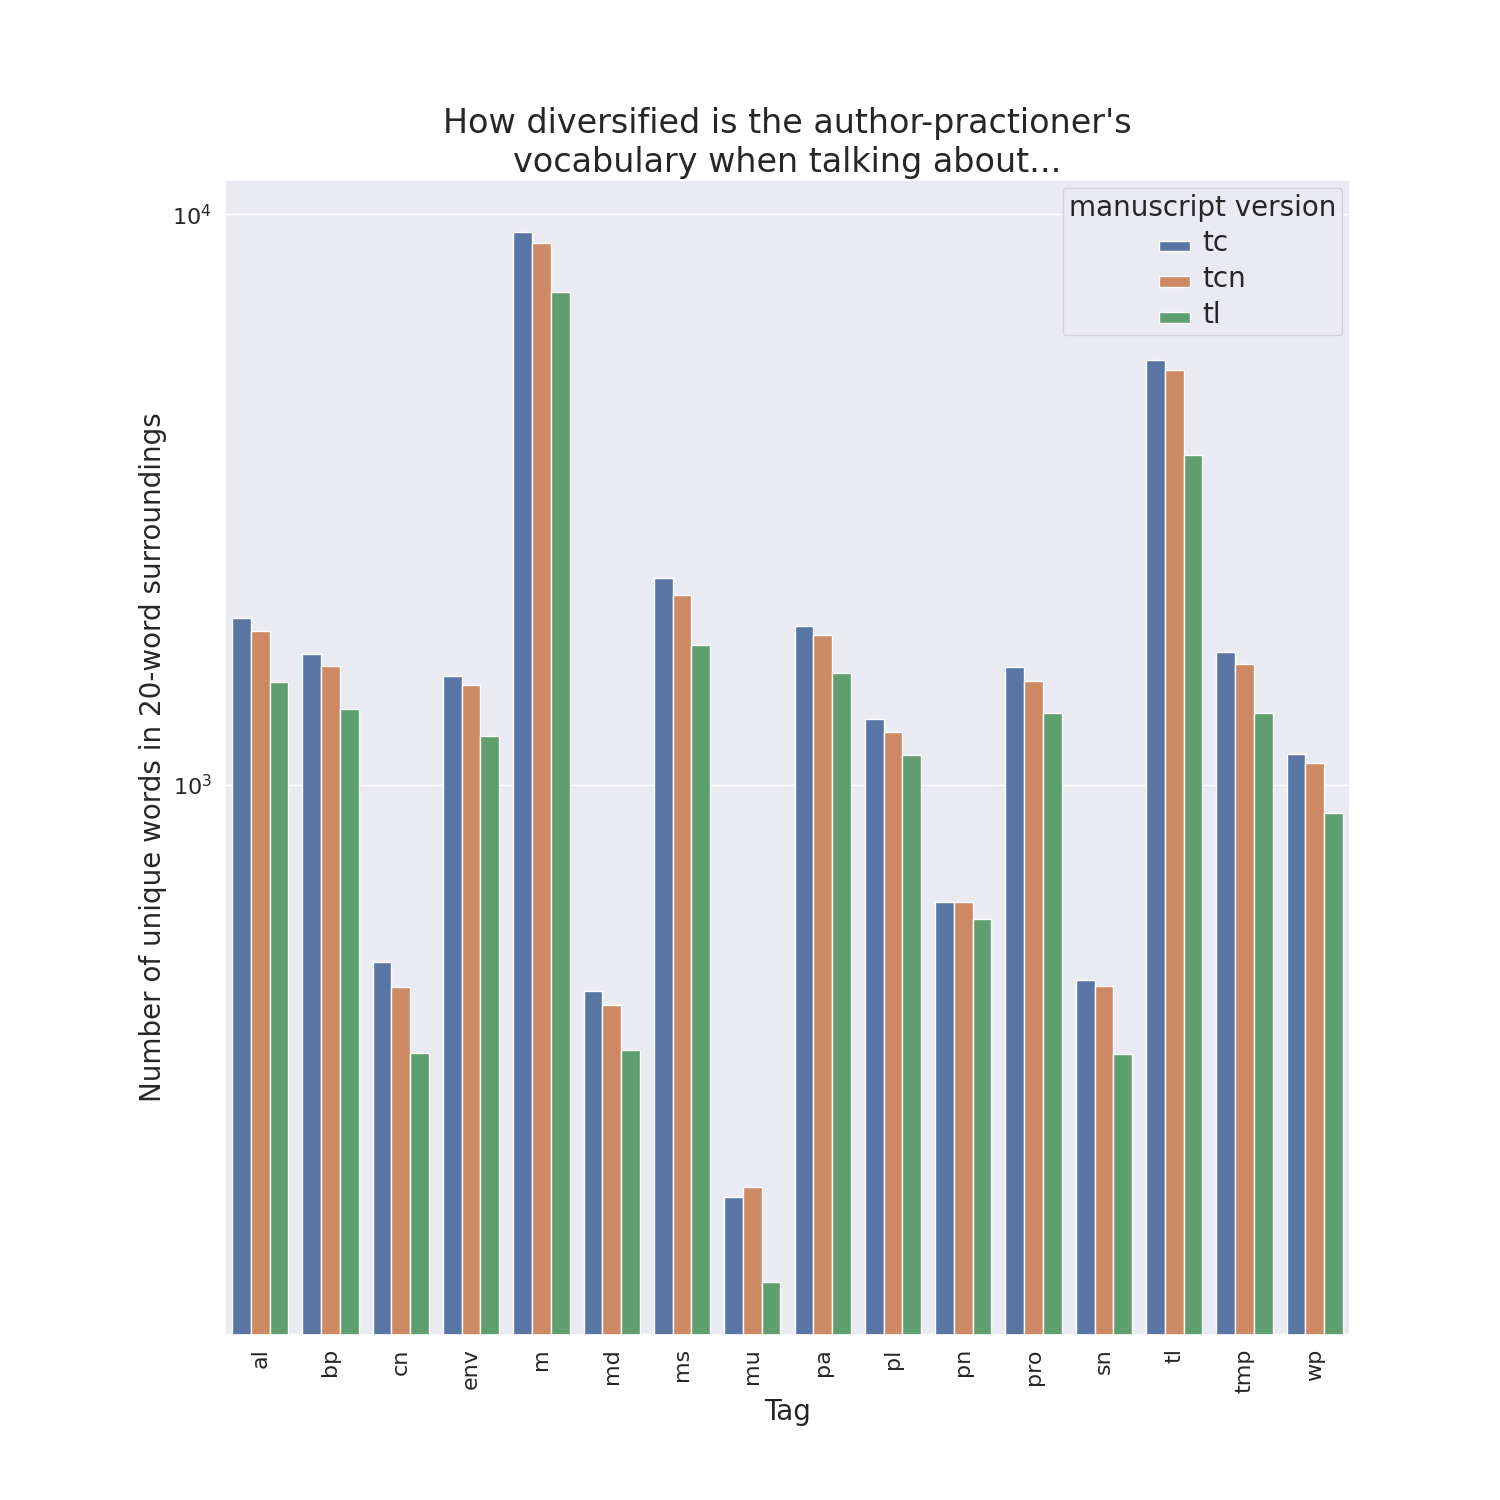
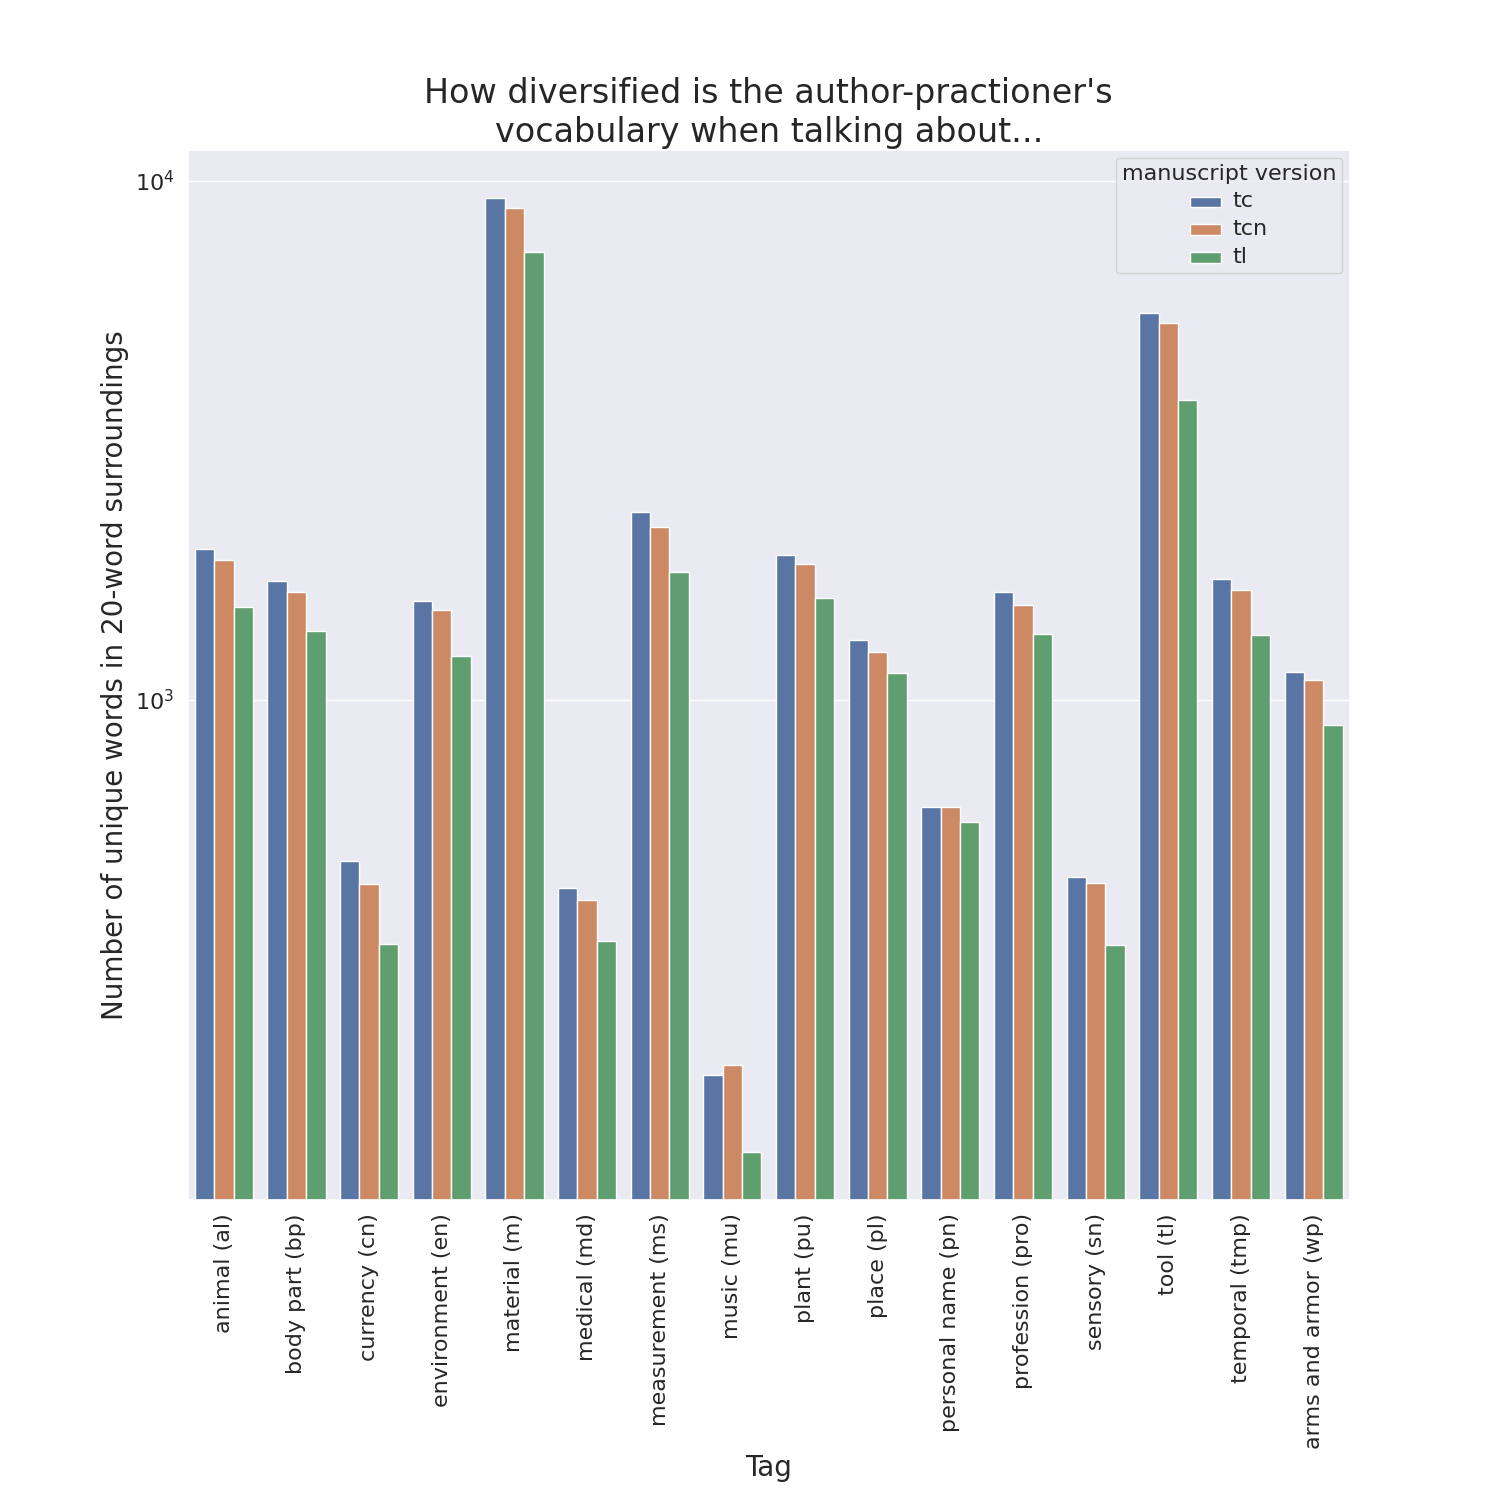
tweaks in grouped barplots and scatterplot

Changed region(s): [[0.0613, 0.0307, 0.92, 0.9507], [0.5213, 0.92, 0.552, 0.9507], [0.4907, 0.9507, 0.5213, 0.9813]]

diff --git a/manuscript_visualizations.py b/manuscript_visualizations.py
@@ -16,7 +16,7 @@ cwd = os.getcwd()
 m_path = cwd if 'manuscript-object' not in cwd else f'{cwd}/../'
 
 
-def tags_scatterplot(search_tags, filename):
+def tags_scatterplot(search_tags, filename, title):
     folios = []
     tags = []
     counts = []
@@ -33,14 +33,23 @@ def tags_scatterplot(search_tags, filename):
 
         for tag in search_tags:
             folio_text = etree.tostring(tree, method = "xml", encoding="UTF-8").decode('utf-8')
-            folios.append(folio)
+            folios.append(number+side)
             tags.append(tag)
             counts.append(folio_text.count(f'<{tag}>'))
 
     df = pandas.DataFrame({"folios": folios, "tags": tags, "counts": counts})
 
     plt.subplots(figsize = (20, 10))
+    plt.gcf().subplots_adjust(left = 0.05)
+    plt.gcf().subplots_adjust(right = 0.95)
     scatter = sns.scatterplot(x = "folios", y = "counts", hue = "tags", data = df)
+
+    scatter.set_ylabel("Tag count", fontsize = 20)
+    scatter.set_xlabel("Folios", fontsize = 20)
+    scatter.set_title(title, fontsize = 24)
+    scatter.set_xticklabels(folios, rotation = 90, fontsize = 4)
+    #scatter.set_yticklabels(scatter.get_yticklabels(), size = 16)
+
     fig = scatter.get_figure()
     fig.savefig(f"{viz_path}{filename}.png")
 
@@ -50,4 +59,6 @@ viz_path = f'{m_path}/manuscript-object/manuscript_visualizations/'
 if not os.path.exists(viz_path):
     os.mkdir(viz_path)
 
-tags_scatterplot(["fr", "el", "it", "la", "oc", "po"], "languages_scatterplot")
+language_tags = ["fr", "el", "it", "la", "oc", "po"]
+title = "Other languages in the English translation of the manuscript"
+tags_scatterplot(language_tags, "languages_scatterplot", title)

diff --git a/context_viz.py b/context_viz.py
@@ -369,8 +369,9 @@ def create_grouped_barplot(data, normalized):
     # normalized = True of False
 
     plt.subplots(figsize = (15,15))
-    #plt.gcf().subplots_adjust(bottom = 0.2)
-    plt.gcf().subplots_adjust(left = 0.15)
+    plt.gcf().subplots_adjust(bottom = 0.2)
+    plt.gcf().subplots_adjust(top = 0.9)
+    #plt.gcf().subplots_adjust(left = 0.15)
 
     if normalized:
         ylabel_appendix = ",\ndivided by the number of times this tag appears"
@@ -402,10 +403,10 @@ def create_grouped_barplot(data, normalized):
     barplt.set_xlabel("Tag", fontsize = 20)
     barplt.set_title("How diversified is the author-practioner's\nvocabulary when talking about...",
                      fontsize = 24)
-    barplt.set_xticklabels(barplt.get_xticklabels(), rotation = 90, fontsize = 16)
-    barplt.set_yticklabels(tag_names, size = 16)
-    plt.setp(barplt.get_legend().get_texts(), fontsize='20')
-    plt.setp(barplt.get_legend().get_title(), fontsize='20')
+    barplt.set_xticklabels(tag_names, rotation = 90, fontsize = 16)
+    barplt.set_yticklabels(barplt.get_yticklabels(), size = 16)
+    plt.setp(barplt.get_legend().get_texts(), fontsize = "16")
+    plt.setp(barplt.get_legend().get_title(), fontsize = "16")
     #hist.yaxis.set_major_locator(plt.FixedLocator(5))
     barplt.set(yscale = "log")
     fig = barplt.get_figure()
